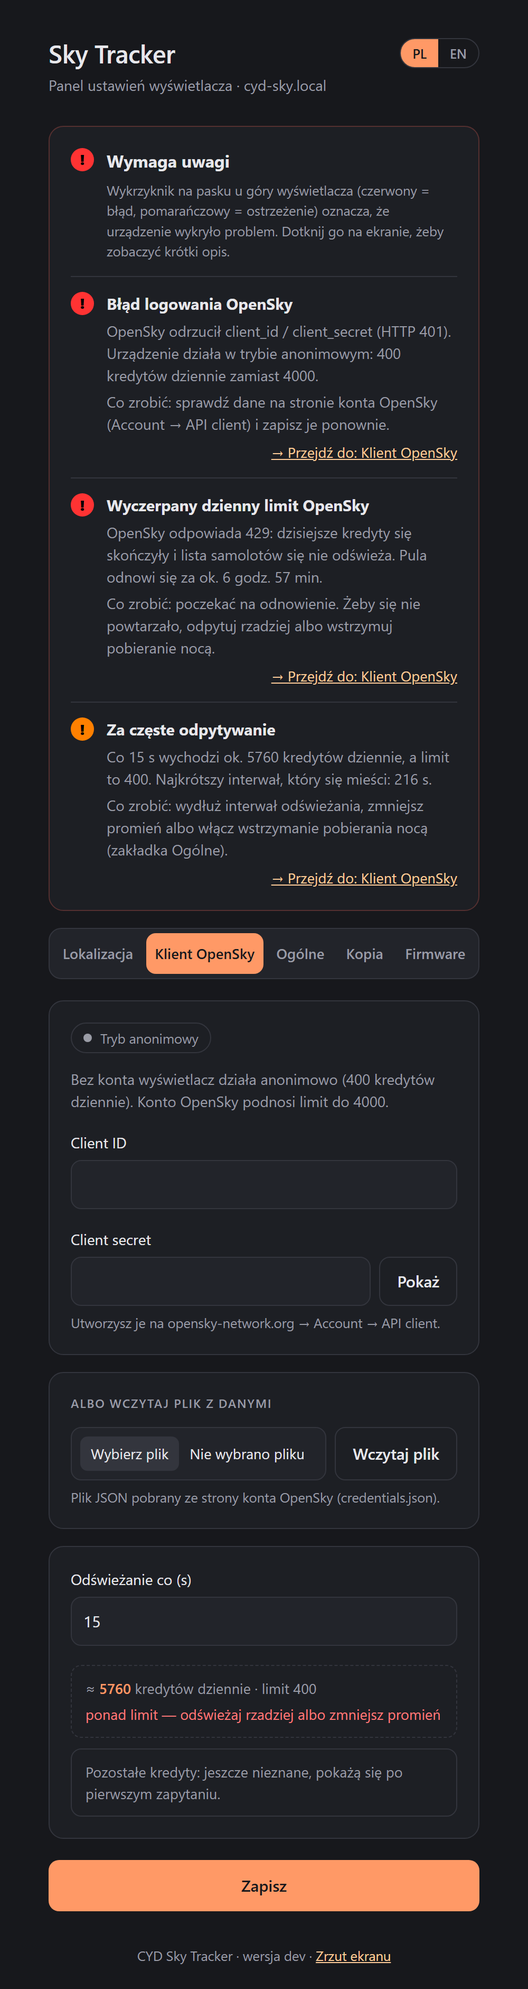
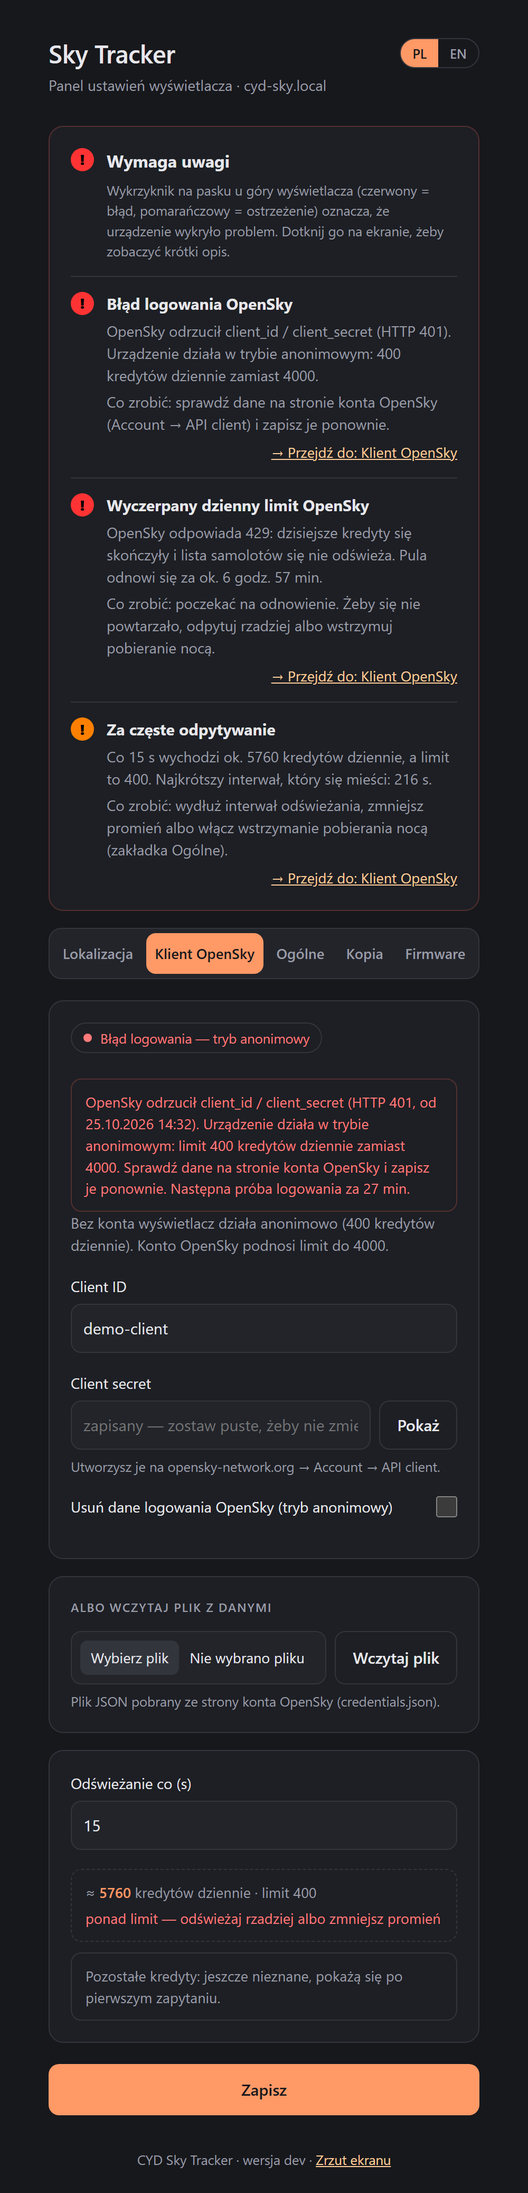
Docs and screenshots for the OpenSky login fallback (spec 06)

diff --git a/site/index.html b/site/index.html
@@ -404,7 +404,7 @@ height="0" width="0" style="display:none;visibility:hidden"></iframe></noscript>
     <img src="screenshots/web_general.png" width="1000" height="4512" alt="Settings page, General tab: screen brightness and night mode, panel password" loading="lazy">
     <img src="screenshots/web_backup.png" width="1000" height="1424" alt="Settings page, Backup tab" loading="lazy">
     <img src="screenshots/web_firmware.png" width="1000" height="1981" alt="Settings page, Firmware tab: updates from GitHub and a manual upload" loading="lazy">
-    <img src="screenshots/web_alert.png" width="1000" height="3762" alt="Settings page with the Needs attention box above the tabs: OpenSky login failed, daily limit reached, polling too often" loading="lazy">
+    <img src="screenshots/web_alert.png" width="1000" height="4148" alt="Settings page with the Needs attention box above the tabs (OpenSky login failed, daily limit reached, polling too often) and the OpenSky tab showing the red login-failed pill and warning" loading="lazy">
   </div>
 </section>
 

diff --git a/ROADMAP.md b/ROADMAP.md
@@ -22,17 +22,22 @@ project page (site/). Keep the format:
 
 | # | Item | Value | Effort | Risk | Rating | Verdict |
 |---|---|---|---|---|---|---|
-| 1 | Wrong OpenSky credentials: keep showing planes anonymously, but say so (red "!", settings page) instead of failing silently <!-- pl: Złe dane logowania OpenSky: dalej pokazywać samoloty anonimowo, ale powiedzieć o tym (czerwony „!”, strona ustawień), zamiast po cichu udawać, że wszystko gra --> | high | small | low | ⭐⭐⭐⭐ | Found the hard way: a typo in the secret showed up hours later as "credits exhausted". Also stops asking the login server every 15 s. Builds on the warnings (done in v1.5.1, which already shows the red "!"). Spec 06. <!-- pl: Sprawdzone na własnej skórze: literówka w sekrecie wyszła kilka godzin później jako „limit wyczerpany”. Do tego koniec z pytaniem serwera logowania co 15 s. Bazuje na ostrzeżeniach (zrobione w v1.5.1, czerwone „!” już się pokazuje). Spec 06. --> |
-| 2 | Robustness fixes: a race in screenshots, a lost "NO" on the update question, the settings page stalling during hexdb.io lookups <!-- pl: Poprawki odporności: wyścig przy zrzutach ekranu, zgubione „NIE” w pytaniu o aktualizację, strona ustawień zamierająca w trakcie lookupów hexdb.io --> | medium | small | low | ⭐⭐⭐ | Rare, but real bugs; each fix comes with a test. Spec 09. <!-- pl: Rzadkie, ale prawdziwe błędy; każda poprawka z testem. Spec 09. --> |
-| 3 | Settings page security: refuse cross-site requests (CSRF), no changes through GET links, no embedding in other pages <!-- pl: Bezpieczeństwo strony ustawień: odrzucanie żądań z innych stron (CSRF), żadnych zmian przez linki GET, brak osadzania w cudzych stronach --> | medium | small | low | ⭐⭐⭐ | Today any web page opened on the home network could change the settings behind your back. Cheap to fix. Spec 10. <!-- pl: Dziś dowolna strona otwarta w domowej sieci mogłaby po cichu zmienić ustawienia. Tania poprawka. Spec 10. --> |
-| 4 | Clean-up: dead code, outdated comments, CLAUDE.md split into readable docs <!-- pl: Porządki: martwy kod, nieaktualne komentarze, CLAUDE.md podzielony na czytelne dokumenty --> | low | small | low | ⭐⭐⭐ | Invisible on the screen, but it makes the reorganization below smaller and the docs stop contradicting themselves. Spec 11. <!-- pl: Na ekranie niewidoczne, ale reorganizacja niżej robi się mniejsza, a dokumentacja przestaje sobie przeczyć. Spec 11. --> |
-| 5 | Code reorganized around the domain (DDD): sky, aircraft data, OpenSky, display, admin and shared areas, clear layers, dependency rules checked in CI <!-- pl: Kod zorganizowany wokół dziedziny (DDD): obszary niebo, dane o samolotach, OpenSky, wyświetlacz, administracja i wspólne, czytelne warstwy, reguły zależności sprawdzane w CI --> | medium | large | medium | ⭐⭐⭐ | Pays off with the ADS-B feeder and other APIs: OpenSky becomes one replaceable data source. Done in steps; the device behaves the same after each. Spec 12. <!-- pl: Zwraca się przy feederze ADS-B i innych API: OpenSky staje się jednym, wymiennym źródłem danych. Etapami; po każdym urządzenie działa tak samo. Spec 12. --> |
-| 6 | Builds for other CYD variants: one PlatformIO env per board (classic R = ILI9341, R "2USB" = ST7789 with inverted colours, C = capacitive CST820 touch), #if in LGFX_CYD.hpp, a CI build matrix, a board picker in the web installer, and an OTA check that the file matches the board <!-- pl: Wersje dla innych wariantów CYD: osobne środowisko PlatformIO na płytkę (klasyczny R = ILI9341, R „2USB” = ST7789 z odwróconymi kolorami, C = pojemnościowy dotyk CST820), #if w LGFX_CYD.hpp, macierz buildów w CI, wybór płytki w instalatorze na stronie i sprawdzanie przy OTA, czy plik pasuje do płytki --> | high | medium | medium | ⭐⭐⭐⭐ | Fixes "colours inverted / touch does nothing" for anyone else who builds one. Start with 2USB (a small change); C waits until someone with that board confirms the touch pins. The update check already picks the file by board name. <!-- pl: Rozwiązuje „odwrócone kolory / dotyk nie działa” dla każdego, kto zbuduje sobie taki wyświetlacz. Najpierw 2USB (mała zmiana); C czeka, aż ktoś z tą płytką potwierdzi piny dotyku. Sprawdzanie aktualizacji już wybiera plik po nazwie płytki. --> |
-| 7 | Support for your own local ADS-B feeder (waiting for an RTL-SDR receiver) <!-- pl: Wsparcie dla własnego lokalnego feedera ADS-B (czekam na odbiornik RTL-SDR) --> | high | medium | low | ⭐⭐⭐⭐ | When the RTL-SDR arrives: no credits, ~1 s updates. Needs a data-source layer first (the reorganization, #6). <!-- pl: Gdy przyjdzie RTL-SDR: zero kredytów, odświeżanie co ~1 s. Najpierw warstwa źródeł danych (reorganizacja, #6). --> |
-| 8 | Support for alternative APIs (ADS-B Exchange / FlightRadar24 / FlightAware) <!-- pl: Wsparcie dla alternatywnych API (ADS-B Exchange / FlightRadar24 / FlightAware) --> | medium | medium | medium | ⭐⭐⭐ | Together with the feeder, on the same data-source layer. FR24 and FlightAware are paid or restrictive. <!-- pl: Razem z feederem, na tej samej warstwie źródeł danych. FR24 i FlightAware są płatne albo restrykcyjne. --> |
-| 9 | Home Assistant integration (MQTT) <!-- pl: Integracja z Home Assistant (MQTT) --> | medium | medium | low | ⭐⭐⭐ | Nice automations ("plane overhead in 10 s"), but it's out of the MVP scope for now. <!-- pl: Fajne automatyzacje („samolot nad domem za 10 s”), ale na razie poza zakresem MVP. --> |
-| 10 | One firmware for every CYD variant: detect the board at boot (display controller ID, CST820 on I2C 0x15) <!-- pl: Jeden firmware na wszystkie warianty CYD: rozpoznanie płytki przy starcie (ID sterownika wyświetlacza, CST820 na I2C 0x15) --> | medium | medium | high | ⭐⭐ | Nicer for users (no picking the right file), but can't be tested without every board on the desk. Only after the per-variant builds work. <!-- pl: Wygodniejsze dla użytkownika (nie trzeba wybierać pliku), ale nie da się tego przetestować bez każdej płytki na biurku. Dopiero gdy działają osobne buildy na warianty. --> |
-| 11 | Home location from the network (IP geolocation) or an external GPS module <!-- pl: Pobieranie pozycji GPS z sieci (IP Geolocation) lub z zewnętrznego modułu --> | low | small / large | — | ⭐⭐ | IP location is off by kilometres, GPS is overkill indoors. Better: the browser's geolocation via the project page. <!-- pl: Lokalizacja z IP myli się o kilometry, GPS w domu to przesada. Lepiej: geolokalizacja przeglądarki przez stronę projektu. --> |
+| 1 | Robustness fixes: a race in screenshots, a lost "NO" on the update question, the settings page stalling during hexdb.io lookups <!-- pl: Poprawki odporności: wyścig przy zrzutach ekranu, zgubione „NIE” w pytaniu o aktualizację, strona ustawień zamierająca w trakcie lookupów hexdb.io --> | medium | small | low | ⭐⭐⭐ | Rare, but real bugs; each fix comes with a test. Spec 09. <!-- pl: Rzadkie, ale prawdziwe błędy; każda poprawka z testem. Spec 09. --> |
+| 2 | Settings page security: refuse cross-site requests (CSRF), no changes through GET links, no embedding in other pages <!-- pl: Bezpieczeństwo strony ustawień: odrzucanie żądań z innych stron (CSRF), żadnych zmian przez linki GET, brak osadzania w cudzych stronach --> | medium | small | low | ⭐⭐⭐ | Today any web page opened on the home network could change the settings behind your back. Cheap to fix. Spec 10. <!-- pl: Dziś dowolna strona otwarta w domowej sieci mogłaby po cichu zmienić ustawienia. Tania poprawka. Spec 10. --> |
+| 3 | Clean-up: dead code, outdated comments, CLAUDE.md split into readable docs <!-- pl: Porządki: martwy kod, nieaktualne komentarze, CLAUDE.md podzielony na czytelne dokumenty --> | low | small | low | ⭐⭐⭐ | Invisible on the screen, but it makes the reorganization below smaller and the docs stop contradicting themselves. Spec 11. <!-- pl: Na ekranie niewidoczne, ale reorganizacja niżej robi się mniejsza, a dokumentacja przestaje sobie przeczyć. Spec 11. --> |
+| 4 | Code reorganized around the domain (DDD): sky, aircraft data, OpenSky, display, admin and shared areas, clear layers, dependency rules checked in CI <!-- pl: Kod zorganizowany wokół dziedziny (DDD): obszary niebo, dane o samolotach, OpenSky, wyświetlacz, administracja i wspólne, czytelne warstwy, reguły zależności sprawdzane w CI --> | medium | large | medium | ⭐⭐⭐ | Pays off with the ADS-B feeder and other APIs: OpenSky becomes one replaceable data source. Done in steps; the device behaves the same after each. Spec 12. <!-- pl: Zwraca się przy feederze ADS-B i innych API: OpenSky staje się jednym, wymiennym źródłem danych. Etapami; po każdym urządzenie działa tak samo. Spec 12. --> |
+| 5 | Builds for other CYD variants: one PlatformIO env per board (classic R = ILI9341, R "2USB" = ST7789 with inverted colours, C = capacitive CST820 touch), #if in LGFX_CYD.hpp, a CI build matrix, a board picker in the web installer, and an OTA check that the file matches the board <!-- pl: Wersje dla innych wariantów CYD: osobne środowisko PlatformIO na płytkę (klasyczny R = ILI9341, R „2USB” = ST7789 z odwróconymi kolorami, C = pojemnościowy dotyk CST820), #if w LGFX_CYD.hpp, macierz buildów w CI, wybór płytki w instalatorze na stronie i sprawdzanie przy OTA, czy plik pasuje do płytki --> | high | medium | medium | ⭐⭐⭐⭐ | Fixes "colours inverted / touch does nothing" for anyone else who builds one. Start with 2USB (a small change); C waits until someone with that board confirms the touch pins. The update check already picks the file by board name. <!-- pl: Rozwiązuje „odwrócone kolory / dotyk nie działa” dla każdego, kto zbuduje sobie taki wyświetlacz. Najpierw 2USB (mała zmiana); C czeka, aż ktoś z tą płytką potwierdzi piny dotyku. Sprawdzanie aktualizacji już wybiera plik po nazwie płytki. --> |
+| 6 | Support for your own local ADS-B feeder (waiting for an RTL-SDR receiver) <!-- pl: Wsparcie dla własnego lokalnego feedera ADS-B (czekam na odbiornik RTL-SDR) --> | high | medium | low | ⭐⭐⭐⭐ | When the RTL-SDR arrives: no credits, ~1 s updates. Needs a data-source layer first (the reorganization, #4). <!-- pl: Gdy przyjdzie RTL-SDR: zero kredytów, odświeżanie co ~1 s. Najpierw warstwa źródeł danych (reorganizacja, #4). --> |
+| 7 | Support for alternative APIs (ADS-B Exchange / FlightRadar24 / FlightAware) <!-- pl: Wsparcie dla alternatywnych API (ADS-B Exchange / FlightRadar24 / FlightAware) --> | medium | medium | medium | ⭐⭐⭐ | Together with the feeder, on the same data-source layer. FR24 and FlightAware are paid or restrictive. <!-- pl: Razem z feederem, na tej samej warstwie źródeł danych. FR24 i FlightAware są płatne albo restrykcyjne. --> |
+| 8 | Home Assistant integration (MQTT) <!-- pl: Integracja z Home Assistant (MQTT) --> | medium | medium | low | ⭐⭐⭐ | Nice automations ("plane overhead in 10 s"), but it's out of the MVP scope for now. <!-- pl: Fajne automatyzacje („samolot nad domem za 10 s”), ale na razie poza zakresem MVP. --> |
+| 9 | One firmware for every CYD variant: detect the board at boot (display controller ID, CST820 on I2C 0x15) <!-- pl: Jeden firmware na wszystkie warianty CYD: rozpoznanie płytki przy starcie (ID sterownika wyświetlacza, CST820 na I2C 0x15) --> | medium | medium | high | ⭐⭐ | Nicer for users (no picking the right file), but can't be tested without every board on the desk. Only after the per-variant builds work. <!-- pl: Wygodniejsze dla użytkownika (nie trzeba wybierać pliku), ale nie da się tego przetestować bez każdej płytki na biurku. Dopiero gdy działają osobne buildy na warianty. --> |
+| 10 | Home location from the network (IP geolocation) or an external GPS module <!-- pl: Pobieranie pozycji GPS z sieci (IP Geolocation) lub z zewnętrznego modułu --> | low | small / large | — | ⭐⭐ | IP location is off by kilometres, GPS is overkill indoors. Better: the browser's geolocation via the project page. <!-- pl: Lokalizacja z IP myli się o kilometry, GPS w domu to przesada. Lepiej: geolokalizacja przeglądarki przez stronę projektu. --> |
+
+## In progress
+
+| # | Item | Value | Effort | Risk | Rating | Verdict |
+|---|---|---|---|---|---|---|
+| 1 | Wrong OpenSky credentials: keep showing planes anonymously, but say so (red "!", settings page) instead of failing silently <!-- pl: Złe dane logowania OpenSky: dalej pokazywać samoloty anonimowo, ale powiedzieć o tym (czerwony „!”, strona ustawień), zamiast po cichu udawać, że wszystko gra --> | high | small | low | ⭐⭐⭐⭐ | Built, waiting for a check on the board: with a wrong secret the planes keep coming anonymously (green dot, red "!"), the login server is asked every 30 min instead of every 15 s, and the OpenSky tab shows a red "login failed" pill with the HTTP code, since when and the next try, and counts the day against 400 credits. Spec 06. <!-- pl: Zbudowane, czeka na sprawdzenie na płytce: przy złym sekrecie samoloty dalej przychodzą anonimowo (zielona kropka, czerwone „!”), serwer logowania dostaje pytanie co 30 min zamiast co 15 s, a zakładka OpenSky pokazuje czerwoną pigułkę „błąd logowania” z kodem HTTP, czasem od kiedy i następną próbą, i liczy dzień względem 400 kredytów. Spec 06. --> |
 
 ## Done
 

diff --git a/CLAUDE.md b/CLAUDE.md
@@ -74,14 +74,20 @@ works**. Implement it like this:
    Response JSON has `access_token` and `expires_in` (~1800s).
 3. Send `Authorization: Bearer <token>` on every `/states/all` call.
 4. Cache the token and refresh **proactively** (e.g. using `millis()`, refresh ~60s before
-   `expires_in` elapses) rather than waiting for a `401`. Treat a `401` as "refresh once and
-   retry", not as a fatal error.
+   `expires_in` elapses) rather than waiting for a `401`. A `401`/`403` on a Bearer request =
+   "refresh once and retry"; still rejected -> `LoginFailed` and **the same poll again,
+   anonymously**. `AuthError` only when an anonymous request is rejected. Wrong credentials
+   never stop the data — see "OpenSky login failure" below.
 5. Anonymous (no credentials) access to `/states/all` still works with lower limits — the
    firmware must work anonymously too, OAuth is an optional upgrade path, same as in micro-radar.
+   A rejected login (400/401/403 from the token endpoint) also runs anonymously, and the login
+   server is asked again only every 30 min (`kLoginRetryMs`), not every poll.
 
 ### Rate limits / credits (check current values if this ever misbehaves — they can change)
 
-- Anonymous: 400 credits/day. Authenticated standard user: 4000/day.
+- Anonymous: 400 credits/day. Authenticated standard user: 4000/day. In `LoginFailed` the board
+  runs anonymously, so `openSkyDailyLimit(auth)` is 400 there (OpenSky tab estimate, budget
+  alert).
 - Cost per `/states/all` call depends on bounding-box area: ≤25 sq° = 1 credit, 25–100 sq° =
   2, 100–400 sq° = 3, >400 sq° = 4.
 - Keep the configurable radius defaulting to something that stays in the 1-credit tier (e.g.
@@ -923,12 +929,55 @@ to fix or to know, even while data flows — anonymous after a failed login: gre
   `minPollIntervalForLimit()`), action and "→ Przejdź do: <tab>". `sendPage()` computes them
   with the same `deviceAlertInputs()`. CSS `--alert:#ff3333; --warn:#ff8000`, the "!" circle is
   `.bang`. (The old red `.alert` box for "no panel password" is now `.nopw`.)
-- **Login state** (`opensky_auth`, first slice of spec 06): `onCredentials()` (other credentials
-  -> `Account`, a fair try), `onTokenResult()` (400/401/403 -> `LoginFailed` + code; no answer /
-  5xx / 200 without a token = unchanged). `opensky_client` logs the change once (`login failed
-  (http=401) — check client_id/secret; using anonymous access` / `login ok — using account`).
-  Still spec 06: 30-min wait before retrying a rejected login (now every poll asks), the OpenSky
-  tab's red pill, the anonymous retry of a poll rejected with a Bearer token.
+- **Login state** comes from `opensky_auth` — see "OpenSky login failure" below. The display's
+  "!" message and the alert card stay generic; the details (HTTP code, since when, next try)
+  are only on the OpenSky tab (owner's decision, spec 06).
+
+## OpenSky login failure — anonymous fallback (opensky_auth)
+
+Spec: `spec/done/06-opensky-login-fallback.md`. Before it, a typo in `client_secret` was silent:
+the token fetch failed, the poll went anonymous with a 200, the panel still said "account", the
+login server got asked every 15 s, and hours later the screen said "credits exhausted" (400
+instead of 4000).
+
+- **State** (`OpenSkyAuthState`, pure, RAM only — a reboot re-learns it with one token request):
+  `mode` `NoCredentials` / `Account` / `LoginFailed`, `lastHttpCode`, `credentialsHash`
+  (FNV-1a of id + secret, no copy of the secret), `failedSinceMs` (first rejection of the
+  series), `nextTokenTryMs`.
+- **Token answer** -> `classifyTokenResponse()`: 200 + `access_token` = `Ok`; 400/401/403 =
+  `Rejected`; anything else (0, -1, 5xx, 200 without a token) = `Transient`. `onTokenResult()`:
+  Ok -> `Account` (failure fields cleared); Rejected -> `LoginFailed`, retry at now + 30 min
+  (`kLoginRetryMs`), `failedSinceMs` kept on a repeated rejection; Transient in `Account` ->
+  unchanged (next poll tries again — a network blip is not a wrong password); Transient in
+  `LoginFailed` -> another 30 min. `NoCredentials` never changes on a token result.
+  `onCredentials()`: other credentials (saved on the page) -> `Account` at once, a fair try.
+- **Around a poll** (`opensky_client::fetchAircraftStates()`, decisions pure):
+  `shouldTryToken()` (LoginFailed: only after `nextTokenTryMs`, wrap-safe) -> token;
+  `planStatesRequest(auth, tokenValid)` = Bearer only in `Account` with a valid token;
+  `afterStatesResponse()`: 401/403 with Bearer -> `RefreshTokenAndRetry` (skipped when the token
+  was fetched this poll), then `RetryAnonymous` (-> `LoginFailed`); 401/403 anonymous ->
+  `AuthError`; anything else -> `Accept`. At most two extra requests per poll; the extra
+  anonymous one only on the transition into `LoginFailed`.
+- The cached token is dropped on `Rejected` and *before* a refresh: a refresh with no answer
+  sends the retry anonymously and keeps `Account`, instead of re-sending a rejected token and
+  landing in `LoginFailed` for 30 min over a network blip.
+- **Log** (`authChangeLogLine()`, once per mode change, not on setting up / removing
+  credentials): `[opensky_client] login failed (http=401) — check client_id/secret; using
+  anonymous access, next try in 30 min` / `[opensky_client] login ok — using account`.
+  A rejected anonymous request: `/states/all rejected (http=401, anonymous)`. On the board,
+  "no token requests for 30 min" = no `token fetch failed` line in that time.
+- **Settings page, OpenSky tab** (`config_page`): the page uses
+  `onCredentials(model.auth, hash(cfg), …)`, so credentials just saved read as `Account`. Pill:
+  grey "Anonymous mode" / green "OpenSky account configured" / red `.pill.err` "Login failed —
+  anonymous mode". In `LoginFailed` a `.stat.quota.warn#loginwarn` line below it
+  (`loginFailedDetailText()`): HTTP code, ", since DD.MM.YYYY HH:MM" (only with a synced clock,
+  `ConfigPageModel::nowEpoch` = `timeSyncNowLocal()`), 400 instead of 4000, "next login attempt
+  in N min" (rounded up, never below 1). The daily estimate compares with
+  `openSkyDailyLimit(auth)`; `#daily` gets `data-lf="1"` so the live JS keeps 400 until the
+  client id or secret is edited. (`openSkyDailyCreditLimit(bool)` is gone.)
+- Display: unchanged code — with wrong credentials the poll now ends `Ok`, so aircraft + green
+  dot + the red "!" from "Device alerts"; "BŁĄD LOGOWANIA OPENSKY" only when even anonymous
+  access is rejected.
 
 ## Design language — LCARS-inspired (Star Trek console aesthetic)
 
@@ -1002,8 +1051,9 @@ each with a single responsibility:
   micro-radar's `microradar.local`.
   The page HTML is rendered by the pure **`config_page`** module (`renderConfigPage(model,
   sink)`, streamed chunk by chunk, native-tested): five tabs — **Location** (lat/lon, radius +
-  credits per request), **OpenSky client** (account status, client id/secret, credentials-file
-  upload, poll interval + estimated credits per day vs. the 400/4000 limit), **General**
+  credits per request), **OpenSky client** (account status pill: anonymous / account / red "login failed" with a
+  warning, client id/secret, credentials-file
+  upload, poll interval + estimated credits per day vs. the 400/4000 limit — 400 in `LoginFailed`), **General**
   (display + web-panel language, auto-cycle, flight-phase thresholds, panel password),
   **Backup** (download / restore, below), **Firmware** (OTA update, see "Firmware updates (OTA)
   & panel password"); one Save for the first three (hidden on Backup and Firmware), the active
@@ -1054,7 +1104,9 @@ each with a single responsibility:
 - `hexdb_http` — device-only: the shared hexdb.io HTTPS GET with keep-alive per batch.
 - `device_alerts` — the "!" alerts (see "Device alerts"): definitions table, `collectAlerts()`,
   texts, badge colours, `minPollIntervalForLimit()`; pure + `deviceAlertInputs()` adapter.
-- `opensky_auth` — did the OpenSky login work (`OpenSkyAuthState`, `openSkyDailyLimit()`); pure.
+- `opensky_auth` — did the OpenSky login work (`OpenSkyAuthState`, `openSkyDailyLimit()`), the
+  30-min wait after a rejected login and the Bearer / refresh / anonymous-retry decisions around
+  a poll (see "OpenSky login failure"); pure.
 - `opensky_client` — token fetch/refresh + `/states/all` polling. Returns a plain struct/array
   of aircraft. **No TFT/drawing code in this module** — must be swappable/testable independently
   of the visualization.

diff --git a/spec/done/06-opensky-login-fallback.md b/spec/done/06-opensky-login-fallback.md
@@ -1,6 +1,6 @@
 # Spec 06 — Błąd logowania OpenSky: tryb anonimowy + komunikat w panelu
 
-Z przeglądu kodu 2026-10-25, punkt 1.2. Status: **w trakcie**.
+Z przeglądu kodu 2026-10-25, punkt 1.2. Status: **zrobione 2026-10-25** (logika i panel; sprawdzenie na płytce — scenariusze `@manual` w PR).
 
 ## 1. Problem
 
@@ -21,7 +21,7 @@ pokazuje, że logowanie się nie udało i że urządzenie pracuje anonimowo.**
 
 - **Wyświetlacz:** samoloty widoczne, kropka stanu zielona (dane płyną), a w nagłówku
   **czerwony wykrzyknik** — ostrzeżenie `OpenSkyLoginFailed` z ogólnego mechanizmu
-  [spec 08](../done/08-device-alerts.md). (`OpenSkyHealth::AuthError` zostaje tylko dla sytuacji,
+  [spec 08](08-device-alerts.md). (`OpenSkyHealth::AuthError` zostaje tylko dla sytuacji,
   w której nawet zapytanie anonimowe dostaje 401/403.)
 - **Panel, strona główna:** nad zakładkami ramka z wykrzyknikiem i wyjaśnieniem, dlaczego się
   pojawił (spec 08 §3.4).
@@ -144,3 +144,43 @@ pominięty.
 2. Log: jedna linia „login failed”, potem **brak** zapytań do serwera logowania przez 30 min.
 3. Poprawne dane zapisane w panelu → następny poll używa konta, pigułka zielona, log „login ok”.
 4. Bez danych logowania zachowanie identyczne jak dziś.
+
+## Wynik (2026-10-25)
+
+Gałąź `spec/06-opensky-login-fallback`, commity 35088c0 (`opensky_auth`), 242e939
+(`opensky_client`), eee9ca6 (panel). `pio test -e native`: 819 przypadków, wszystkie zielone;
+`pio run -e cyd`: flash 1 464 041 B / 1 966 080 (74,5 %); `check_bdd`: 25 scenariuszy, 4 `@manual`.
+
+Kryteria akceptacji (§5):
+
+1. Zły `client_secret` → samoloty + zielona kropka + czerwony „!”, ramka nad zakładkami, czerwona
+   pigułka i ostrzeżenie z HTTP 401 — logika pokryta testami (`afterStatesResponse`,
+   `test_opensky_pill_per_auth_state`, `test_login_failed_warning_with_code_time_and_retry`),
+   zrzut `docs/screenshots/web_alert.png` (wersja demo). **Na płytce: `@manual`.**
+2. Jedna linia „login failed … next try in 30 min”, potem 30 min bez zapytań o token —
+   `test_rejected_login_waits_30_min`, `test_retry_wait_survives_millis_rollover`,
+   `test_auth_log_line_only_on_change`. **Na płytce: `@manual`** (brak linii `token fetch failed`).
+3. Poprawne dane → konto, zielona pigułka, „login ok” — `test_new_credentials_try_at_once`,
+   `test_just_saved_credentials_show_account`, `test_auth_log_line_login_ok`. **Na płytce: `@manual`.**
+4. Bez danych — bez zmian: `test_no_credentials_never_tries_token`. **Na płytce: `@manual`.**
+
+Odstępstwa od specyfikacji i dlaczego:
+
+- `useBearer(s)` z §3.1 nazywa się `planStatesRequest(s, tokenValid)` (jak w §4) — ważność tokenu
+  jest parametrem, a nie częścią stanu.
+- `afterStatesResponse()` zwraca `{StatesStep, auth}` (`Accept` / `RefreshTokenAndRetry` /
+  `RetryAnonymous` / `AuthError`) zamiast `{retryAnonymous, newAuth, health}` — stan zdrowia
+  dalej ustala istniejący kod 429/200.
+- 403 na `/states/all` z Bearerem traktowane jak 401 (odśwież raz, potem anonimowo) — decyzja
+  właściciela.
+- Token pobrany w tym samym pollu nie jest odświeżany drugi raz: 401/403 od razu → anonimowo.
+- Token jest unieważniany przed odświeżeniem: jeśli odświeżenie nie przyniesie odpowiedzi
+  (`Transient`), powtórka idzie anonimowo, a stan zostaje `Account` — chwilowa awaria sieci nie
+  blokuje konta na 30 min.
+- „Następna próba za N min” zaokrąglane w górę, minimum 1 — decyzja właściciela.
+- Komunikat „!” na wyświetlaczu i ramka nad zakładkami bez zmian (bez czasu i następnej próby) —
+  szczegóły tylko na zakładce OpenSky, decyzja właściciela.
+- Na żywo liczony szacunek dzienny (JS) trzyma limit 400, dopóki client_id/secret nie zostaną
+  zmienione w formularzu (`data-lf`) — nie da się tego przetestować natywnie, sprawdzić w panelu.
+- Stan logowania jest tylko w RAM: po restarcie pierwszy poll znów próbuje tokenu (jedno
+  zapytanie).

diff --git a/README.md b/README.md
@@ -191,7 +191,10 @@ The settings page has five tabs; one **Save** button saves the first three at on
    page estimates your daily credit use against the limit (400 anonymous, 4,000 with an
    account) and turns red if you'd run out. Once saved, the secret is never shown again: the
    field stays empty, and leaving it empty keeps the saved one. To go back to anonymous mode,
-   tick *Remove the OpenSky credentials*.
+   tick *Remove the OpenSky credentials*. If OpenSky rejects them, the status pill at the top
+   turns red (*Login failed — anonymous mode*) and a note below it gives the HTTP code, since
+   when, and how many minutes until the board tries again; the daily estimate then counts
+   against the anonymous 400.
 3. **General**: display language, web panel language, screen brightness and night mode (see
    [Brightness and night mode](#brightness-and-night-mode) below), automatic screen cycling,
    the flight-phase thresholds and the settings page's own password — see
@@ -255,7 +258,10 @@ itself after 15 s); the settings page shows the same thing in a *Needs attention
 tabs, with the details and a link to the right tab. Right now it covers:
 
 - **OpenSky login failed** (red): OpenSky rejected the client id / secret. The board keeps going
-  anonymously (400 credits a day instead of 4000). Check them on your OpenSky account page.
+  anonymously (400 credits a day instead of 4000), so the planes keep coming and the dot stays
+  green. It knocks on the login server's door again every 30 minutes rather than every 15
+  seconds (nobody likes a doorbell prankster). Check the credentials on your OpenSky account
+  page and save them again; the board tries them straight away.
 - **OpenSky daily limit reached** (red): the last request got a 429. The box says when the
   credits come back.
 - **Polling too often** (orange): with your interval and radius the board would use more credits

diff --git a/spec/README.md b/spec/README.md
@@ -20,7 +20,7 @@ dostaje ją od agenta (`NN` = kolejny wolny numer, „Źródło: issue #N”).
 | 03 | [Jasność i tryb nocny](done/03-brightness-night-mode.md) | done | v1.3.0 |
 | 04 | [Dwa rdzenie](done/04-dual-core.md) | done | v1.4.0 |
 | 05 | [Ograniczone cache hexdb.io](done/05-bounded-lookup-cache.md) | done | v1.4.3 |
-| 06 | [Błąd logowania OpenSky → tryb anonimowy](planned/06-opensky-login-fallback.md) | planned | w trakcie |
+| 06 | [Błąd logowania OpenSky → tryb anonimowy](done/06-opensky-login-fallback.md) | done | zrobione 2026-10-25, czeka na wydanie |
 | 07 | [Reorganizacja testów](done/07-test-reorganization.md) | done | v1.4.2 |
 | 08 | [Ostrzeżenia urządzenia („!”)](done/08-device-alerts.md) | done | v1.5.1 |
 | 09 | [Odporność: zrzut ekranu, komendy, WWW w trakcie lookupów](planned/09-concurrency-robustness.md) | planned | czeka |

diff --git a/spec/done/08-device-alerts.md b/spec/done/08-device-alerts.md
@@ -4,7 +4,7 @@ Z przeglądu kodu 2026-10-25 (decyzje właściciela 2026-10-25). Status: **zrobi
 (2026-10-25). Na płytce sprawdzone kryteria 1, 2, 5 i 7 z §5; 6 tylko na zrzucie demo (429 nie
 da się wywołać na żądanie); 3–4 (dotyk) do potwierdzenia przy okazji. Stan logowania
 (`OpenSkyAuthState`) wszedł jako pierwszy kawałek spec 06 (`src/opensky_auth.h`).
-Pierwszy użytkownik mechanizmu: [spec 06](../planned/06-opensky-login-fallback.md) (błąd logowania OpenSky).
+Pierwszy użytkownik mechanizmu: [spec 06](06-opensky-login-fallback.md) (błąd logowania OpenSky).
 
 ## 1. Cel
 
